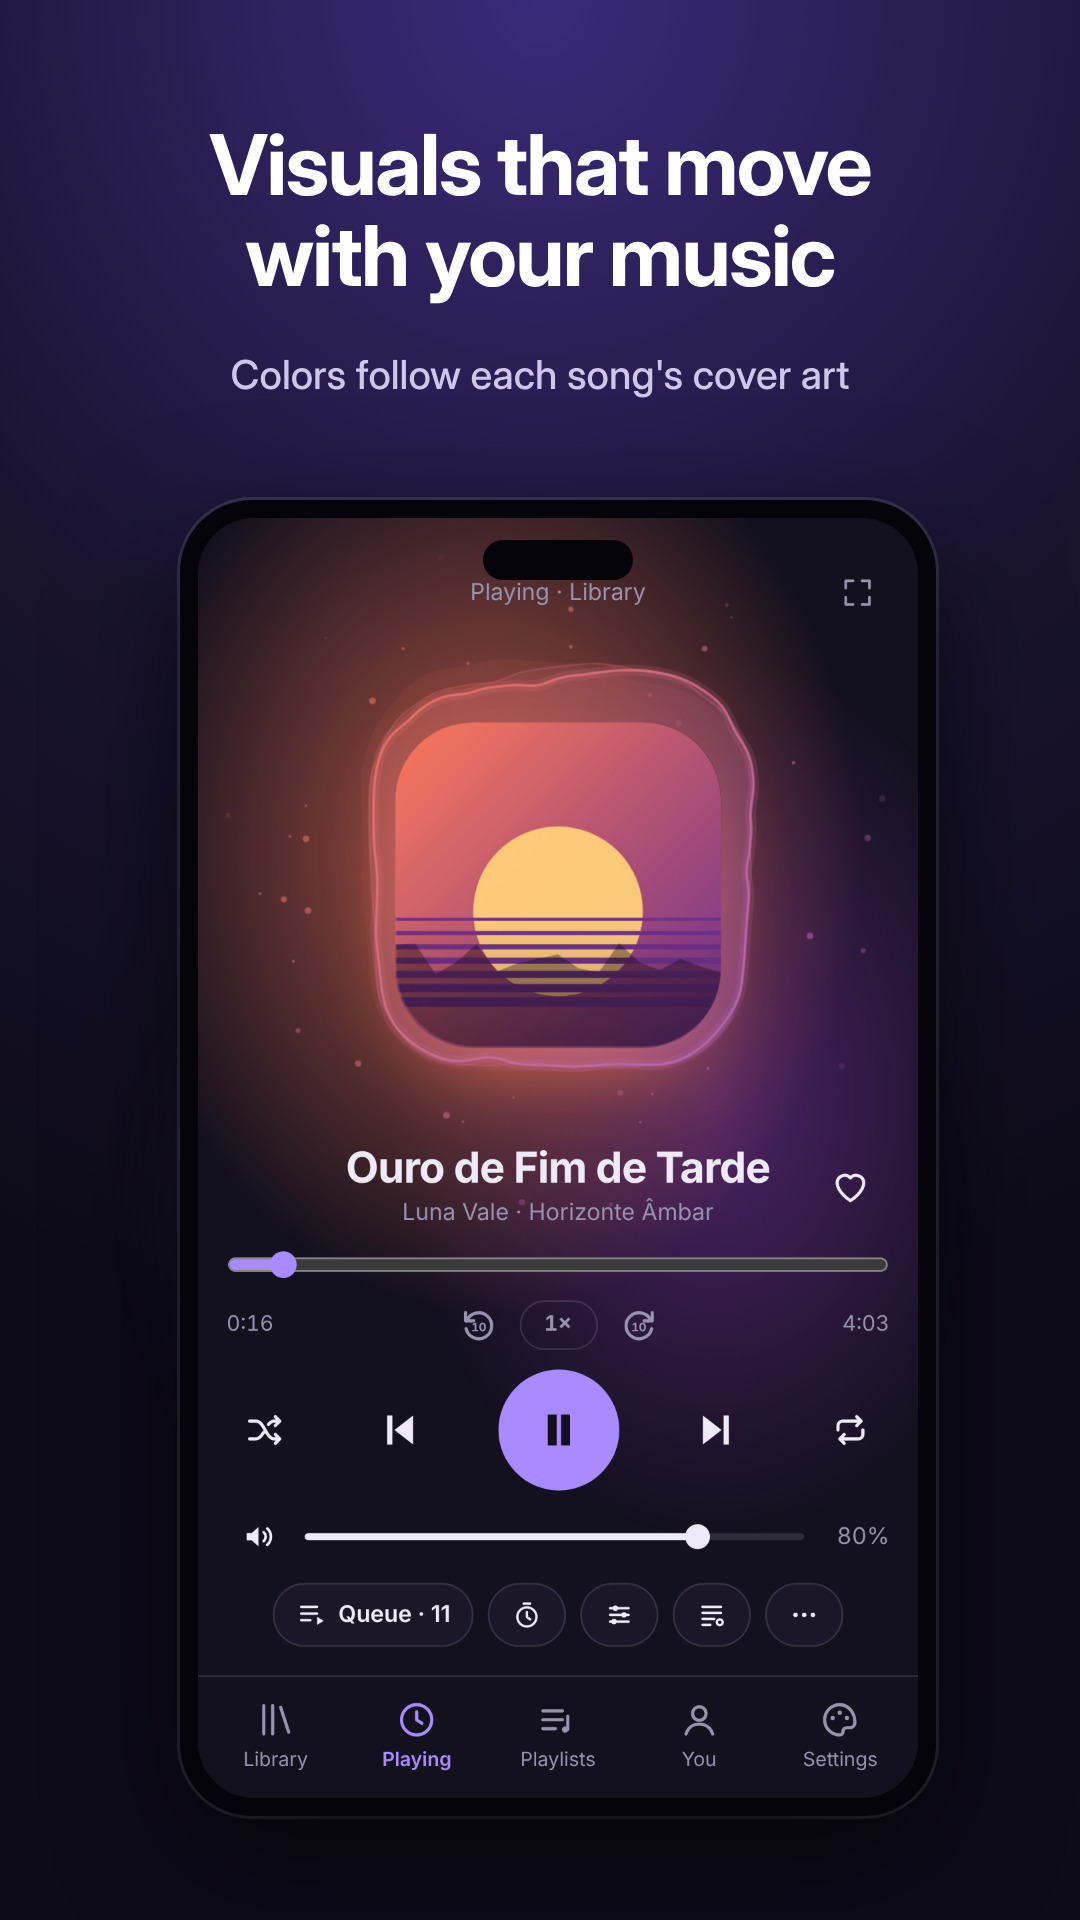
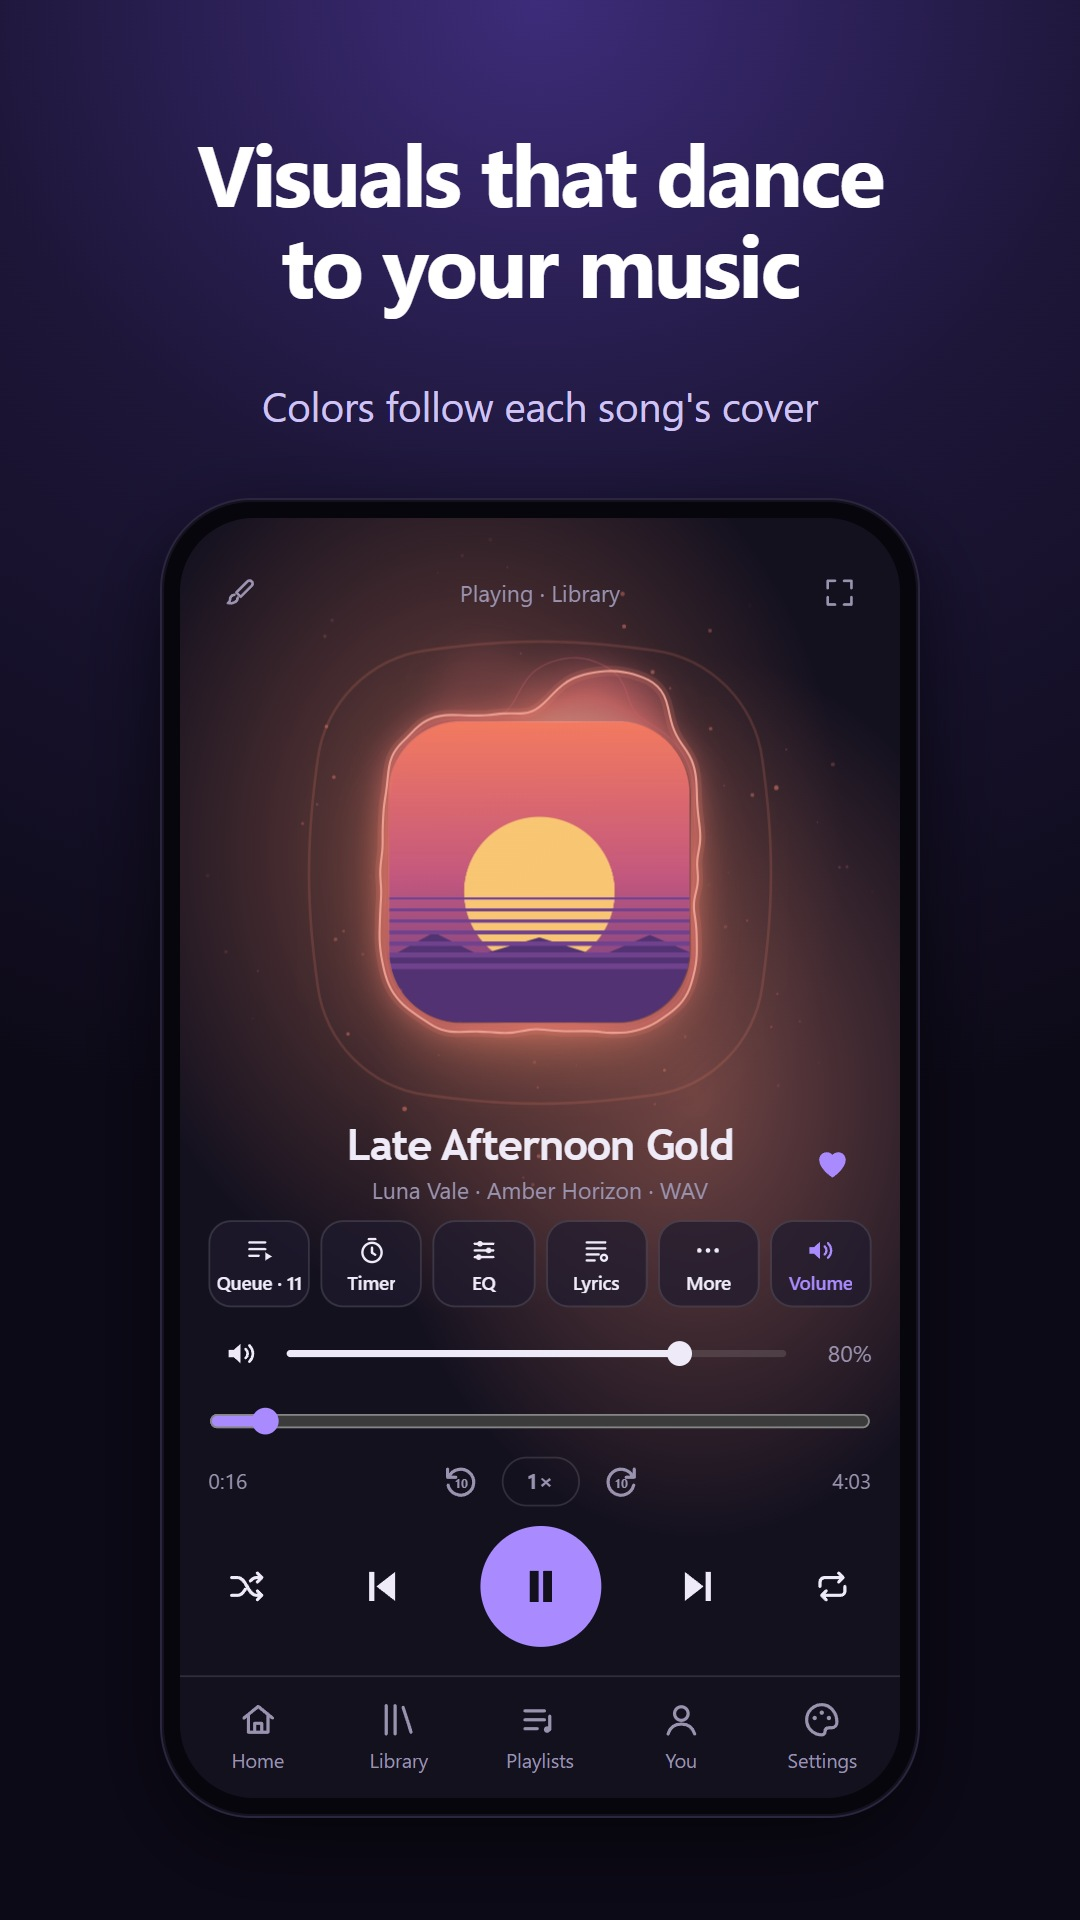
Material da Play refeito na 1.26: prints novos, arte de destaque com o ícone atual e script que gera tudo

diff --git a/loja/README.md b/loja/README.md
@@ -3,4 +3,12 @@
 - `icone-512.png`: ícone da loja (512×512).
 - `pt/` e `en/`: imagem de destaque (1024×500) e 8 capturas de tela (1080×1920), em português e em inglês.
 
-As músicas, os artistas, as capas e a letra que aparecem nas imagens foram criados só para estes prints. Nenhum deles é de terceiros.
+As capturas, na ordem: Aura, Biblioteca, Relógio, Personalizar, LED, Letra, Efeitos de som e Início (tema claro).
+
+## Como refazer
+
+`node scripts/prints-loja.mjs` gera tudo de novo a partir do app de verdade (Chrome sem janela, nada é instalado).
+Para refazer só uma parte: `node scripts/prints-loja.mjs pt 3 5` (idioma e números das capturas).
+Os textos de cada imagem ficam no começo do script.
+
+As músicas, os artistas, as capas e a letra que aparecem nas imagens são criados pelo próprio script, só para estes prints. Nenhum deles é de terceiros.
